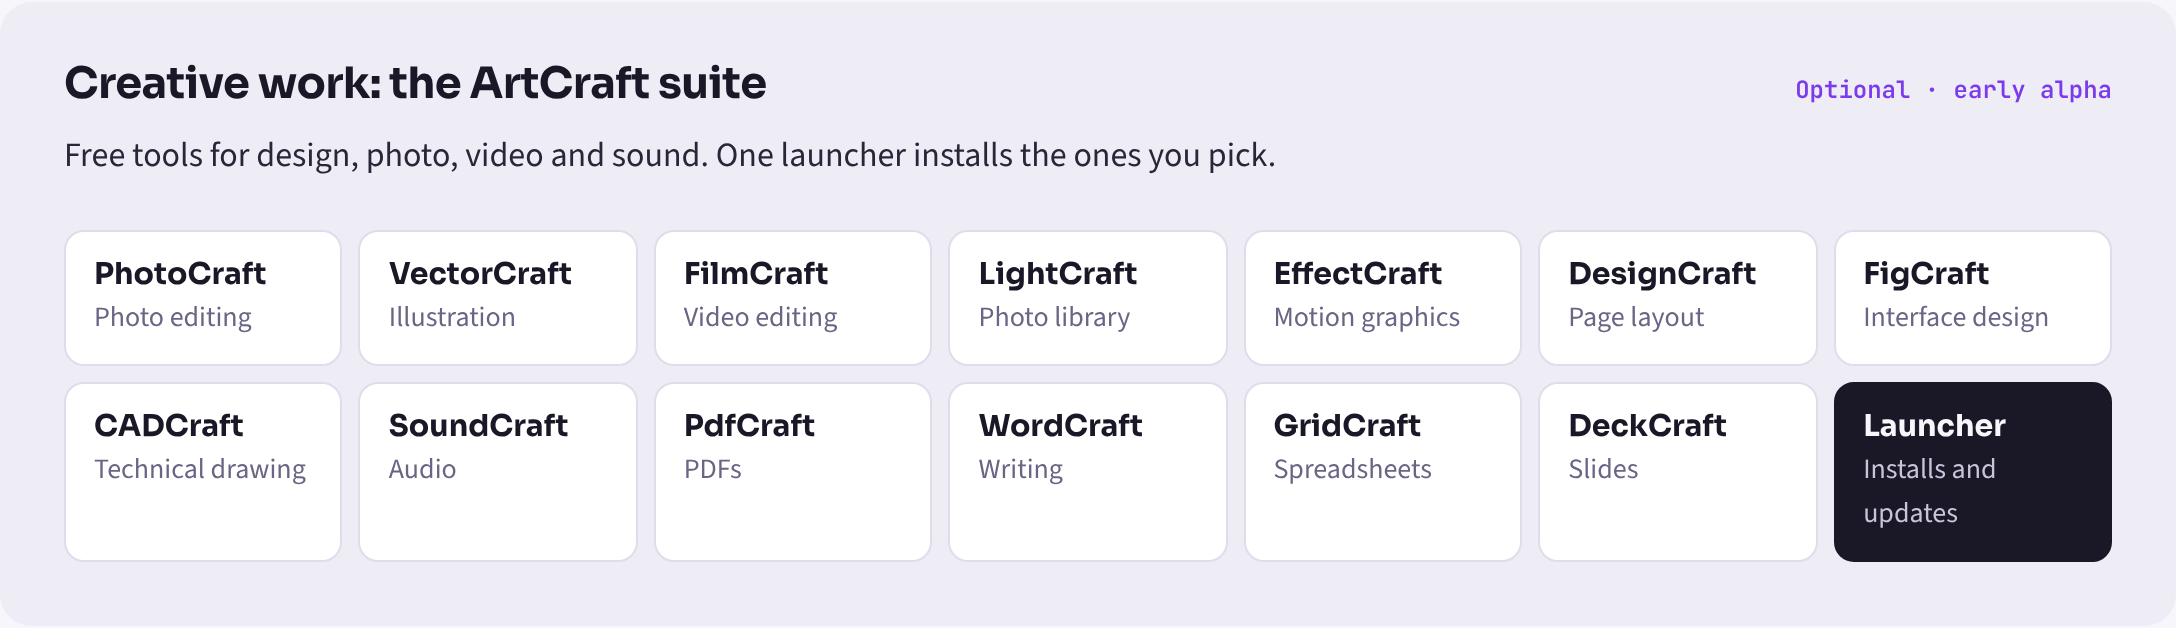
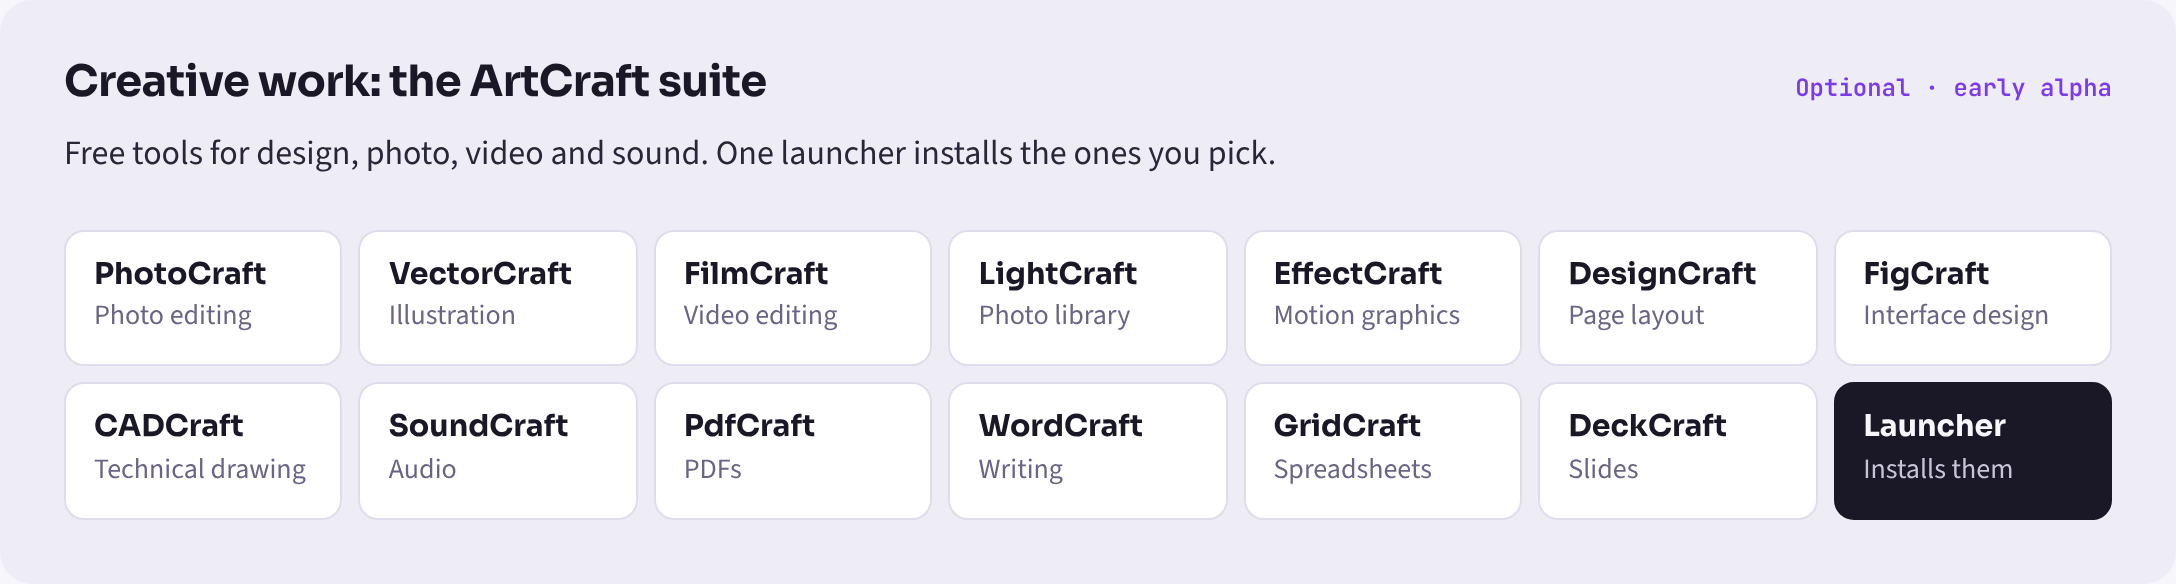
Name the assistant kortex in the profile README
The landing page now introduces the assistant by name; the profile
follows it, and the demo image carries the name.

Claude-Session: https://claude.ai/code/session_013UKWhVhABwyv7iy9GDQQe7

diff --git a/profile/README.md b/profile/README.md
@@ -9,7 +9,7 @@
 
 <p align="center">
   The free alternative to Windows and macOS, for x86-64 and ARM.<br>
-  A complete desktop with an assistant built in, on Debian and KDE Plasma.
+  A complete desktop with its own assistant, kortex, on Debian and KDE Plasma.
 </p>
 
 <p align="center">
@@ -27,12 +27,12 @@
 </p>
 
 <p align="center">
-  <img src="assets/assistant.png" alt="The patina assistant: asked to make the text a little bigger, it offers to change the system font size to 11 pt and waits for Allow once, Always or Deny" width="636">
+  <img src="assets/assistant.png" alt="kortex, the patina assistant: asked to make the text a little bigger, it offers to change the system font size to 11 pt and waits for Allow once, Always or Deny" width="636">
 </p>
 
-## The assistant
+## Meet kortex
 
-Press the Windows key and Space, then type `ai` and your request.
+kortex is patina's assistant. Press the Windows key and Space, then type `ai` and your request.
 
 - **Runs on your machine.** What you ask never leaves it, and it works offline.
 - **Shows before it changes.** Every change waits for you: Allow once, Always, or Deny.
@@ -81,7 +81,7 @@ Star it if you want this to exist.
 | | |
 |---|---|
 | [**patina**](https://github.com/patina21/patina) | the OS: the look, the apps, the settings and the assistant's setup |
-| [**kortex**](https://github.com/patina21/kortex) | the assistant in the command palette |
+| [**kortex**](https://github.com/patina21/kortex) | kortex, the assistant in the command palette |
 
 Every line is public and GPL. patina builds on what Debian and KDE do well, and adds
 nothing that needs its own security team. Themes and fixes are welcome.
